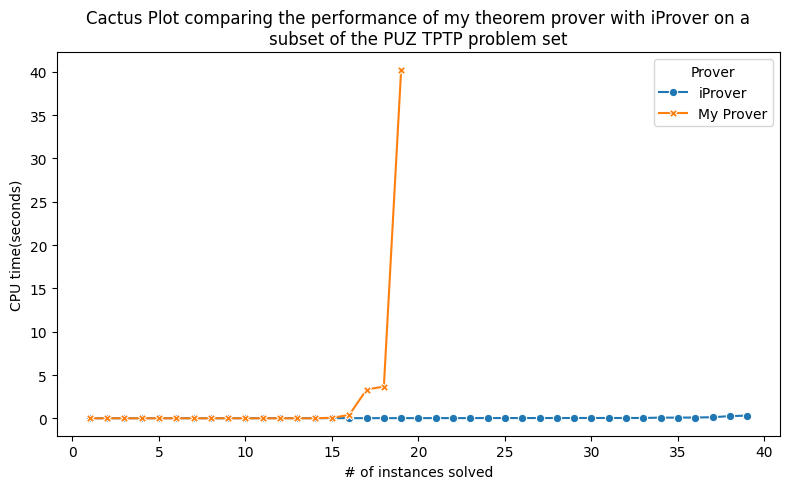
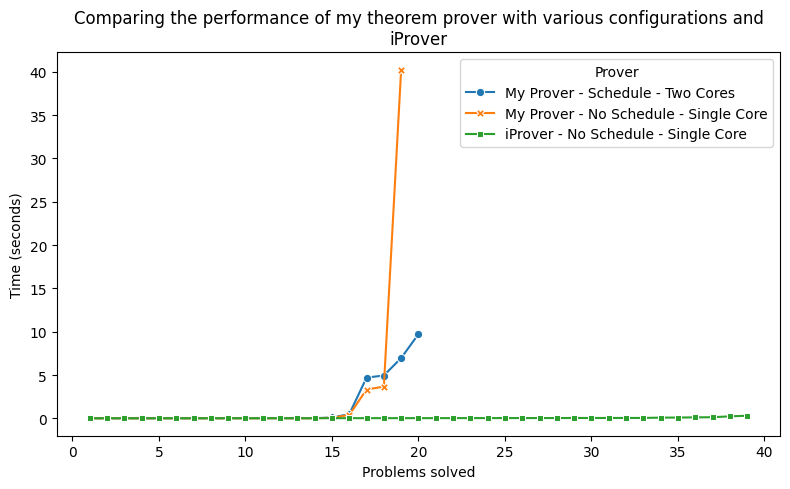
Update readme with cactus plot containing results from my prover with multi threaded schedule

diff --git a/README.md b/README.md
@@ -8,12 +8,18 @@ A First-Order Logic automated theorem prover written in **Haskell**. This tool i
 
 | Prover | Number of Problems Solved | Average Solve Time on Solved Instances|
 | :--- | :--- | :--- |
-| My Prover | 19 | 2.5197s |
+| My Prover - No Schedule - Single Core | 19 | 2.5197s |
+| My Prover - Schedule - Two Cores | 20 | 1.3575s |  
 | iProver | 39 | 0.0498s | 
+| 
 
 NOTE: A 60 second time limit was used when gathering these results 
 
 NOTE: These results were gathered using a subset of the PUZ TPTP set that does not use equality or references to axiom files, because our prover does not support this yet.
+
+NOTE: The config files used for my prover can be found in configs/.
+
+NOTE: iProver was ran with no schedule, using its default configuration and a single core.
 
 Config for my prover
 ```json
